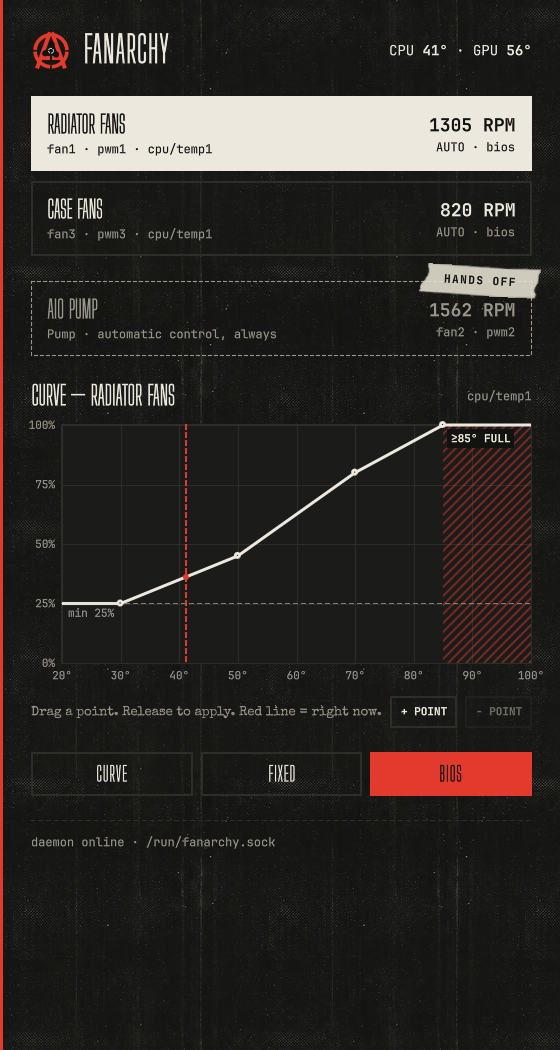
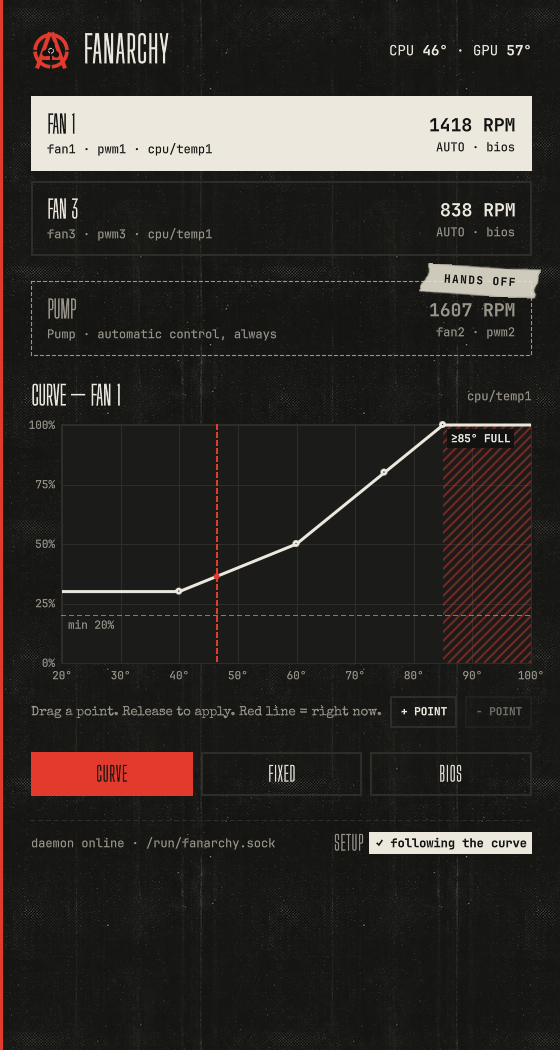
docs: show the setup wizard and start a hardware compatibility list
README:
- "What it is" shows wizard step 1 (MARK THE PUMP) next to the panel.
- "Install" shows a GIF of the whole setup, from START SETUP to
  "setup applied".
- New "Supported hardware" section linking docs/hardware.md and the
  Hardware report issue form.

docs/hardware.md lists tested boards, starting with the maintainer's
Gigabyte B550M AORUS ELITE (IT8689E, community it87,
ignore_resource_conflict=1, pump on pwm2). New rows come from
Hardware report issues.

preview.png is retaken with real fans and curves.

scripts/record-demo.sh records a region with wf-recorder, or converts
an existing MP4 (--from), with optional --crop, --start, --end and
--width, into a 12 fps GIF. It uses 64 colours and no dithering because
the panel's grainy background more than doubles the size otherwise.
It never touches the daemon or /sys.

diff --git a/specs/09-showcase-and-compatibility.md b/specs/09-showcase-and-compatibility.md
@@ -1,0 +1,43 @@
+# Spec — Phase 9: Showcase and Compatibility List
+
+## 1. Overview and Goal
+* **Purpose:** Make the README show what Fanarchy does today (the setup wizard, not only the panel) and start a public list of boards it works on, fed by the "Hardware report" issues.
+* **Success Criteria:**
+  * The README shows the setup wizard: a screenshot of step 1 ("MARK THE PUMP") and a short demo GIF of the whole setup, both taken on my machine.
+  * `preview.png` (used by the marketplace) shows the panel with real fans and curves.
+  * `docs/hardware.md` lists tested boards in a table, starting with mine, and the README links to it.
+  * The README explains how to add a board: open a "Hardware report" issue.
+  * Every image in the README stays under 2 MB, and the GIF under 5 MB.
+
+## 2. Tech Stack and Architecture
+* **Screenshots:** `grim` (full output, with a delay) and `magick` to crop.
+* **Demo:** `wf-recorder` to record a region (or any existing MP4, such as one from Omarchy's screen recorder), then `ffmpeg` to turn it into a GIF (2-pass palette, 64 colours, no dithering, 12 fps). Default width 720 px; the panel demo uses its native 560 px.
+* **Helper:** `scripts/record-demo.sh` wraps the commands above so the media can be redone after UI changes. It records or takes `--from FILE.mp4`, and can `--crop`, `--start`, `--end` and set `--width`. It only records and converts; it never touches the daemon or `/sys`.
+
+## 3. Commands
+* **Screenshot with delay:** `sleep 5 && grim -o DP-1 /tmp/full.png`, then `magick /tmp/full.png -crop WxH+X+Y out.png`
+* **Record:** `scripts/record-demo.sh docs/assets/setup-demo.gif` (prints how to select the region and stop with Ctrl+C)
+* **From an existing recording:** `scripts/record-demo.sh --from rec.mp4 --crop 560x1050+1360+30 --start 0.5 --end 23.5 --width 560 docs/assets/setup-demo.gif`
+* **Check sizes:** `du -h docs/assets/* preview.png`
+
+## 4. Project Structure
+* `preview.png`: panel with fans and curves (repo root, the marketplace reads it there).
+* `docs/assets/setup-step1.png`: wizard step 1.
+* `docs/assets/setup-demo.gif`: the whole setup, from START SETUP to "✓ setup applied".
+* `docs/hardware.md`: the compatibility table.
+* `scripts/record-demo.sh`: recording helper.
+
+## 5. Code Style and Conventions
+* **`docs/hardware.md` table columns:** Board, Chip / driver, Module options, Pump, Result, Report (issue link). Result is one of "Works", "Partly works", "Doesn't work".
+* **First row (mine):** Gigabyte board with IT8689E, community it87 (DKMS), `ignore_resource_conflict=1`, pump on `pwm2`, Works. Ask me for the exact board model before writing it.
+* **README:** a short "Supported hardware" section with one sentence, the link to `docs/hardware.md` and the link to the "Hardware report" issue form. No long tables in the README itself.
+* **Images:** real screenshots only, no mockups or edited fake data.
+
+## 6. Boundaries
+* **Always:**
+  * Keep the README order from Phase 6; the new media goes into the "What it is" and "Install" sections.
+* **Ask first:**
+  * Before adding a row to `docs/hardware.md` that doesn't come from an issue or from me.
+* **Never:**
+  * NEVER add a board as "Works" without a report.
+  * NEVER commit screenshots that show other windows, notifications or personal data.

diff --git a/README.md b/README.md
@@ -16,6 +16,10 @@ Fanarchy is fan control for [Omarchy](https://omarchy.org): a small root daemon 
 
 ![The Fanarchy bar widget and the open panel](preview.png)
 
+A setup wizard in the panel takes the fans over. It always starts by marking the pump, so the pump can't be slowed down by mistake:
+
+![Setup wizard, step 1: MARK THE PUMP](docs/assets/setup-step1.png)
+
 <img src="design/logo-animated.gif" alt="" width="160" align="right">
 
 It has three parts:
@@ -41,6 +45,8 @@ The package does **not** enable or start the daemon, and the starter config cont
 1. Let your user talk to the daemon: `sudo usermod -aG fanarchy "$USER"`, then log out and back in.
 2. Start it: `sudo systemctl enable --now fanarchyd`. With the starter config it only reads sensors.
 3. Open the Fanarchy panel and press **START SETUP**: mark the pump first, pick and name the fans to control, check and apply. The daemon validates the setup, saves it and takes the fans over without a restart. **SETUP** in the panel footer reopens the wizard later.
+
+![The whole setup, from START SETUP to "setup applied"](docs/assets/setup-demo.gif)
 
 Prefer the terminal? `fanarchyctl outputs` lists the same outputs, and you can edit `/etc/fanarchy/config.json` by hand instead (see [Configuration](#configuration)), check it with `fanarchyd check-config` and apply it with `fanarchyctl reload`.
 
@@ -149,6 +155,10 @@ options it87 ignore_resource_conflict=1
 ### `pwmN` reads are meaningless in automatic mode
 
 Some chips (the IT8689E included) report garbage in `pwmN` while `pwmN_enable` is `2`, so `sensors` may show odd percentages for fans the BIOS controls. Trust the RPM. Details in [`docs/hardware-notes.md`](docs/hardware-notes.md).
+
+## Supported hardware
+
+Fanarchy works with any board whose fan headers show up as `pwmN` outputs under `hwmon`. The boards that have been tested are listed in [`docs/hardware.md`](docs/hardware.md). To add yours, open a [Hardware report](https://github.com/babisque/fanarchy/issues/new?template=hardware_report.yml) issue.
 
 ## Dependencies and services
 

diff --git a/docs/hardware.md b/docs/hardware.md
@@ -1,0 +1,17 @@
+# Supported hardware
+
+Boards Fanarchy has been tested on, as reported by the people who run it.
+
+**How to add your board:** open a [Hardware report](https://github.com/babisque/fanarchy/issues/new?template=hardware_report.yml) issue. Every report helps, including "it just works". A board is added here only from a report.
+
+| Board | Chip / driver | Module options | Pump | Result | Report |
+| --- | --- | --- | --- | --- | --- |
+| Gigabyte B550M AORUS ELITE | ITE IT8689E, community it87 (DKMS) | `ignore_resource_conflict=1` | `pwm2` | Works | Maintainer's machine |
+
+**Result:**
+
+- **Works**: fans follow their curves, and the pump is left alone.
+- **Partly works**: some outputs or readings are wrong.
+- **Doesn't work**: no PWM outputs, or the daemon refuses to start.
+
+**Module options** are the driver options that had to be set. For `ignore_resource_conflict=1` and its risk, see [Known issues](../README.md#gigabyte-boards-with-ite-chips-it87) in the README.
